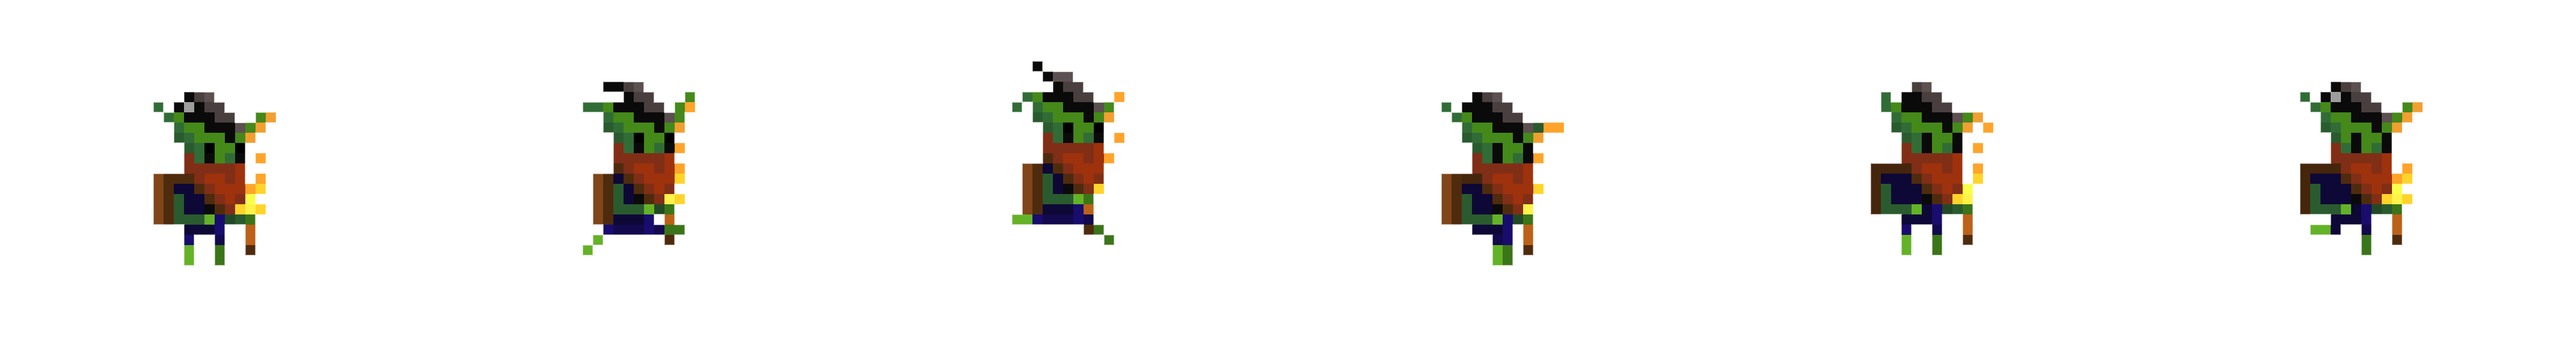
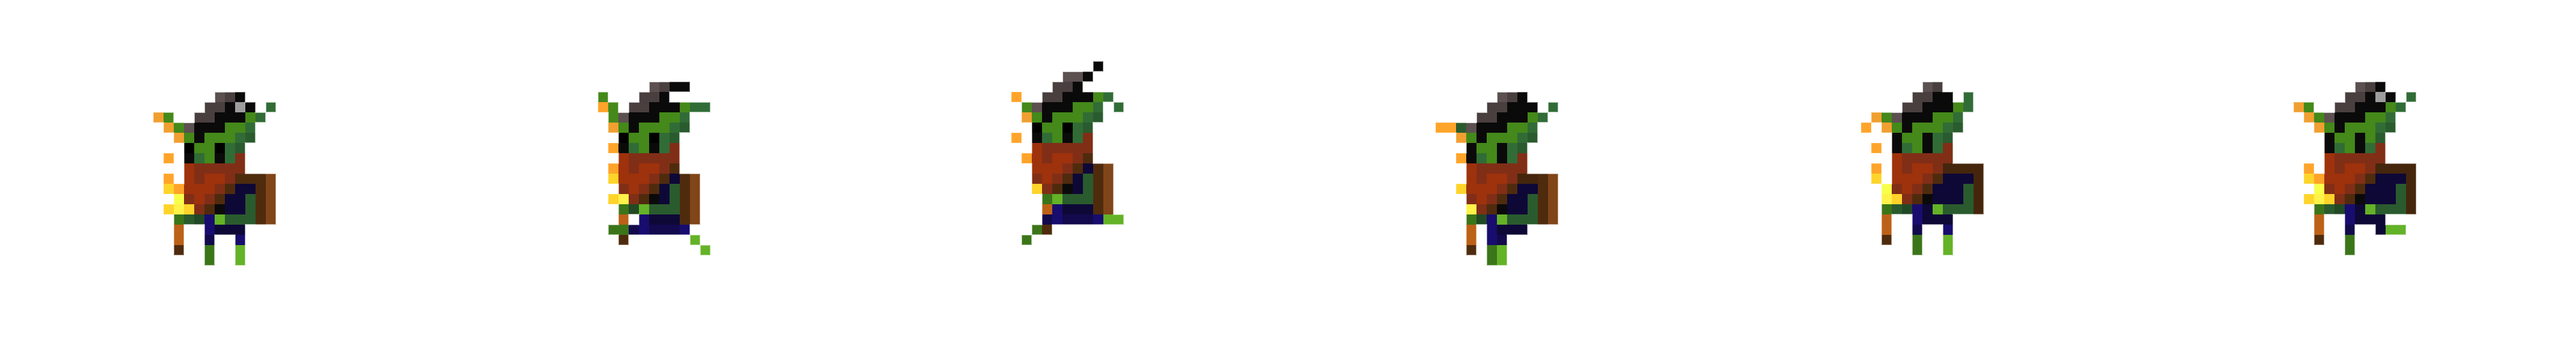
Add sprites and bullets

diff --git a/src/player.js b/src/player.js
@@ -1,13 +1,16 @@
 class Player {
-    constructor(canvas){
+    constructor(canvas, playerImgSrc, keys){
         this.canvas = canvas;
         this.ctx = this.canvas.getContext("2d");
 
         this.lives = 1; // Player lives
-        this.size = 100; // Para un cuadrado,luego se cambia
+
+        this.width = 150;
+        this.height = 150;
+
         this.x = 50; // Empieza a 50px del borde
-        this.y = this.canvas.height * 0.80 - this.size; // Pone al jugador en el "suelo"
-        this.y0 = this.canvas.height * 0.80 - this.size ;
+        this.y = this.canvas.height * 0.80 - this.height; // Pone al jugador en el "suelo"
+        this.y0 = this.canvas.height * 0.80 - this.height ;
 
         this.directionX = 0; // 1, 0 o -1, arriba o abajo
         this.directionY = 0;
@@ -15,6 +18,15 @@ class Player {
 
         this.vy = 1;
         this.gravity = 0.4;
+
+        this.image = new Image();
+        this.image.src = playerImgSrc;
+        this.frames = 5;
+        this.framesIndex = 0;
+
+        this.keys = keys;
+        this.bullets = [];
+        this.shoot();
     }
 
     setDirection(direction){
@@ -51,6 +63,7 @@ class Player {
             this.vy = 1;
             this.y = this.y0;
         }
+        this.bullets.forEach(bullet => bullet.move())
     }
 
     handleScreenCollision(){
@@ -58,13 +71,13 @@ class Player {
         const screenBottom = this.canvas.height; // ESTA TENDRE QUE MODIFICARLA!!!! SUELO!!
 
         const playerTop = this.y;
-        const playerBottom = this.y + this.size;
+        const playerBottom = this.y + this.height;
 
         const screenLeft = 0;
         const screenRight = this.canvas.width; // OJO ESTA QUE HA DE PASAR PANTALLA
 
         const playerLeft = this.x;
-        const playerRight = this.x + this.size;
+        const playerRight = this.x + this.width;
 
         if(playerLeft <= screenLeft) {
             this.setDirection("right");
@@ -79,21 +92,43 @@ class Player {
         this.lives -= 1;
     }
 
-    draw(){
-        this.ctx.fillStyle = "#66D3FA";
-        this.ctx.fillRect(this.x, this.y, this.size, this.size)
+    draw(framesCounter){
+        this.ctx.drawImage(
+            this.image,
+            this.framesIndex * Math.floor(this.image.width / this.frames),
+            0,
+            Math.floor(this.image.width / this.frames),
+            this.image.height,
+            this.x,
+            this.y,
+            this.width,
+            this.height
+        )
+        this.clearBullets()
+        this.bullets.forEach(bullet => bullet.draw())
+        this.animate(framesCounter)
     }
 
-    didCollide(enemy) {
-        const playerLeft = this.x;
-        const playerRight = this.x + this.size;
-        const playerTop = this.y;
-        const playerBottom = this.y + this.size;
+    animate(framesCounter) {
+        if(framesCounter % 8 === 0) {
+            this.framesIndex++;
 
-        const enemyLeft = enemy.x;
-        const enemyRight = enemy.x + enemy.width;
-        const enemyTop = enemy.y;
-        const enemyBottom = enemy.y + enemy.height;
+            if(this.framesIndex > this.frames - 1) this.framesIndex = 0;
+        }
+    }
+
+
+
+    didCollide(enemy) {
+        const playerLeft = this.x + 50;
+        const playerRight = this.x + this.width - 50;
+        const playerTop = this.y;
+        const playerBottom = this.y + this.height - 50;
+
+        const enemyLeft = enemy.x + 30;
+        const enemyRight = enemy.x + enemy.width - 30;
+        const enemyTop = enemy.y + 30;
+        const enemyBottom = enemy.y + enemy.height - 30;
 
         // Comprobamos si el enemigo está "dentro" del player
         const crossLeft = enemyLeft <= playerRight && enemyLeft >= playerLeft;
@@ -107,5 +142,17 @@ class Player {
         } else {
             return false
         }
+    }
+
+    shoot() {
+        document.addEventListener('keydown', (e) => {
+            if (e.keyCode === this.keys.SPACE) {
+                this.bullets.push(new Bullet(this.ctx, 10, this.x, this.y, this.width, this.height, this.y0))
+            }
+        })
+    }
+
+    clearBullets() {
+       this.bullets = this.bullets.filter(bullet => bullet.x <= this.canvas.width)
     }
 }

diff --git a/src/game.js b/src/game.js
@@ -13,6 +13,12 @@ class Game {
         this.scoreElement = undefined;
 
         this.framesCounter = 0;
+        this.gameImage = new Image();
+        this.gameImage.src = "images/fondo-game.png";
+
+        this.playerKeys = {
+            SPACE: 32
+        }
     }
 
     // Create ctx, player and start canvas loop
@@ -24,13 +30,16 @@ class Game {
         this.canvas = this.gameScreen.querySelector("canvas");
         this.ctx = this.canvas.getContext("2d");
 
+        this.ctx.drawImage(this.gameImage, 0, 0, this.canvas.width, this.canvas.height);
+
         // Set the canvas dimensions
         this.canvasContainer = this.gameScreen.querySelector(".canvas-container");
         this.containerWidth = this.canvasContainer.clientWidth;
         this.containerHeight = this.canvasContainer.clientHeight;
         this.canvas.setAttribute("width", this.containerWidth);
         this.canvas.setAttribute("height", this.containerHeight);
-        this.player = new Player(this.canvas);
+
+        this.player = new Player(this.canvas, "../images/minotaur.png", this.playerKeys);
 
         function handleKeyDown(event) {
             if (event.key === "ArrowUp") {
@@ -78,7 +87,8 @@ class Game {
             // Limpiar canvas
             this.ctx.clearRect(0, 0, this.canvas.width, this.canvas.height);
             // Dibujar de nuevo
-            this.player.draw();
+            this.ctx.drawImage(this.gameImage, 0, 0, this.canvas.width, this.canvas.height);
+            this.player.draw(this.framesCounter);
             this.enemies.forEach((enemy) => {
                 enemy.draw(this.framesCounter);
             });
@@ -92,7 +102,7 @@ class Game {
     }
 
     checkCollisions(){
-        this.enemies.forEach((enemy) => {
+        this.enemies.forEach((enemy ,enemyIndex) => {
             if (this.player.didCollide(enemy)) {
                 this.player.removeLife();
 
@@ -103,6 +113,12 @@ class Game {
                 this.gameOver();
                 }
             }
+            this.player.bullets.forEach((bullet, bulletIndex) => {
+                if(enemy.didCollide(bullet)) {
+                    this.enemies.splice(enemyIndex, 1)
+                    this.player.bullets.splice(bulletIndex, 1)
+                }
+            })
         });
     }
     gameOver(){

diff --git a/src/enemy.js b/src/enemy.js
@@ -3,7 +3,7 @@ class Enemy {
         this.canvas = canvas;
         this.ctx = this.canvas.getContext("2d");
 
-        this.width = 100;
+        this.width = 120;
         this.height = 100;
         this.x = this.canvas.width + 20;
         this.y = this.canvas.height * 0.80 - this.height; // Los de a pie salen a la misma altura del player
@@ -29,6 +29,31 @@ class Enemy {
             this.height
         )
         this.animate(framesCounter)
+    }
+
+    didCollide(bullet) {
+        const enemyLeft = this.x + 50;
+        const enemyRight = this.x + this.width - 50;
+        const enemyTop = this.y;
+        const enemyBottom = this.y + this.height - 50;
+
+        const bulletLeft = bullet.x + 30;
+        const bulletRight = bullet.x + bullet.width - 30;
+        const bulletTop = bullet.y + 30;
+        const bulletBottom = bullet.y + bullet.height - 30;
+
+        // Comprobamos si el enemigo está "dentro" del enemy
+        const crossLeft = bulletLeft <= enemyRight && bulletLeft >= enemyLeft;
+        const crossRight = bulletRight >= enemyLeft && bulletRight <= enemyRight;
+        const crossBottom = bulletBottom >= enemyTop && bulletBottom <= enemyBottom;
+        const crossTop = bulletTop <= enemyBottom && bulletTop >= enemyTop;
+
+        // Y comprobamos porque si no miraría toda la horizontal o toda la vertical
+        if ((crossLeft || crossRight) && (crossTop || crossBottom)){
+            return true;
+        } else {
+            return false
+        }
     }
 
     animate(framesCounter) {

diff --git a/src/bullets.js b/src/bullets.js
@@ -1,0 +1,33 @@
+class Bullet {
+    constructor(ctx, radius, playerX, playerY, playerWidth, playerHeight, floor) {
+      this.ctx = ctx;
+      this.radius = radius;
+  
+      this.x = playerX + playerWidth;
+      this.y = playerY + playerHeight/2;
+      this.playerHeight= playerHeight;
+      this.floor = floor;
+  
+      this.vx = 10;
+      this.vy = 1;
+      this.gravity = 0.9;
+    }
+  
+    draw() {
+      this.ctx.beginPath();
+      this.ctx.fillStyle = 'red'
+      this.ctx.arc(this.x, this.y, this.radius, 0, Math.PI * 2)
+      this.ctx.fill()
+      this.ctx.closePath();
+    }
+  
+    move() {
+      this.x += this.vx;
+      this.y += this.vy;
+      this.vy += this.gravity;
+  
+      //Accelerate > 1 &&  Decelerate < 1
+      if(this.y >= this.floor + this.playerHeight) this.vy *= -1
+    }
+  
+  }

diff --git a/index.html b/index.html
@@ -11,7 +11,7 @@
 </head>
 <body>
 
-    <script src="./src/objects.js"></script>
+    <script src="./src/bullets.js"></script>
     <script src="./src/enemy.js"></script>
     <script src="./src/player.js"></script>
     <script src="./src/game.js"></script>
